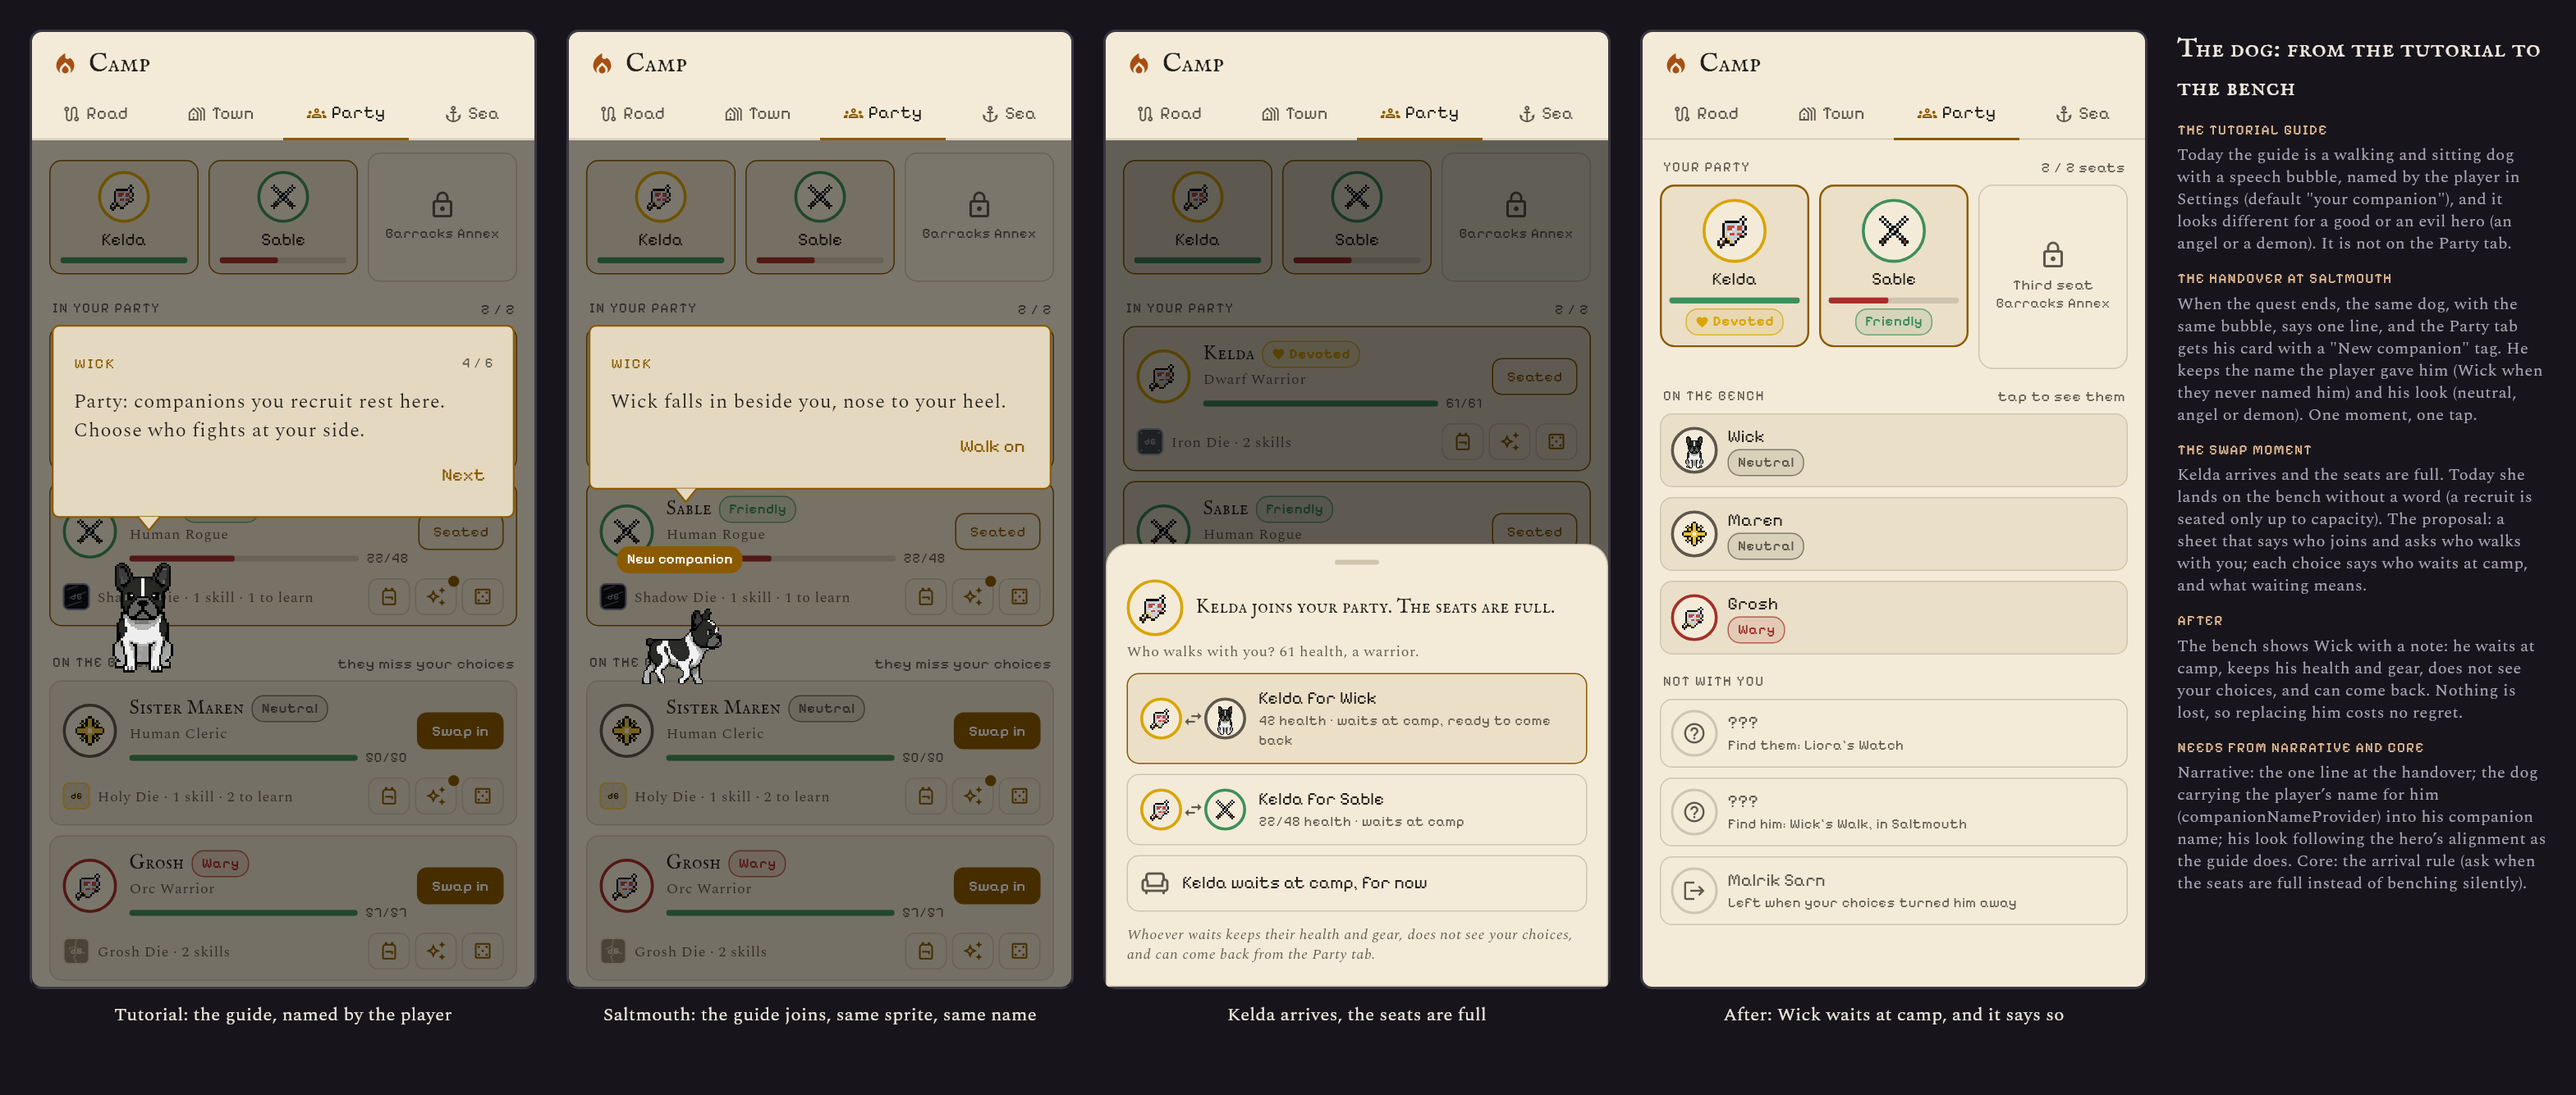
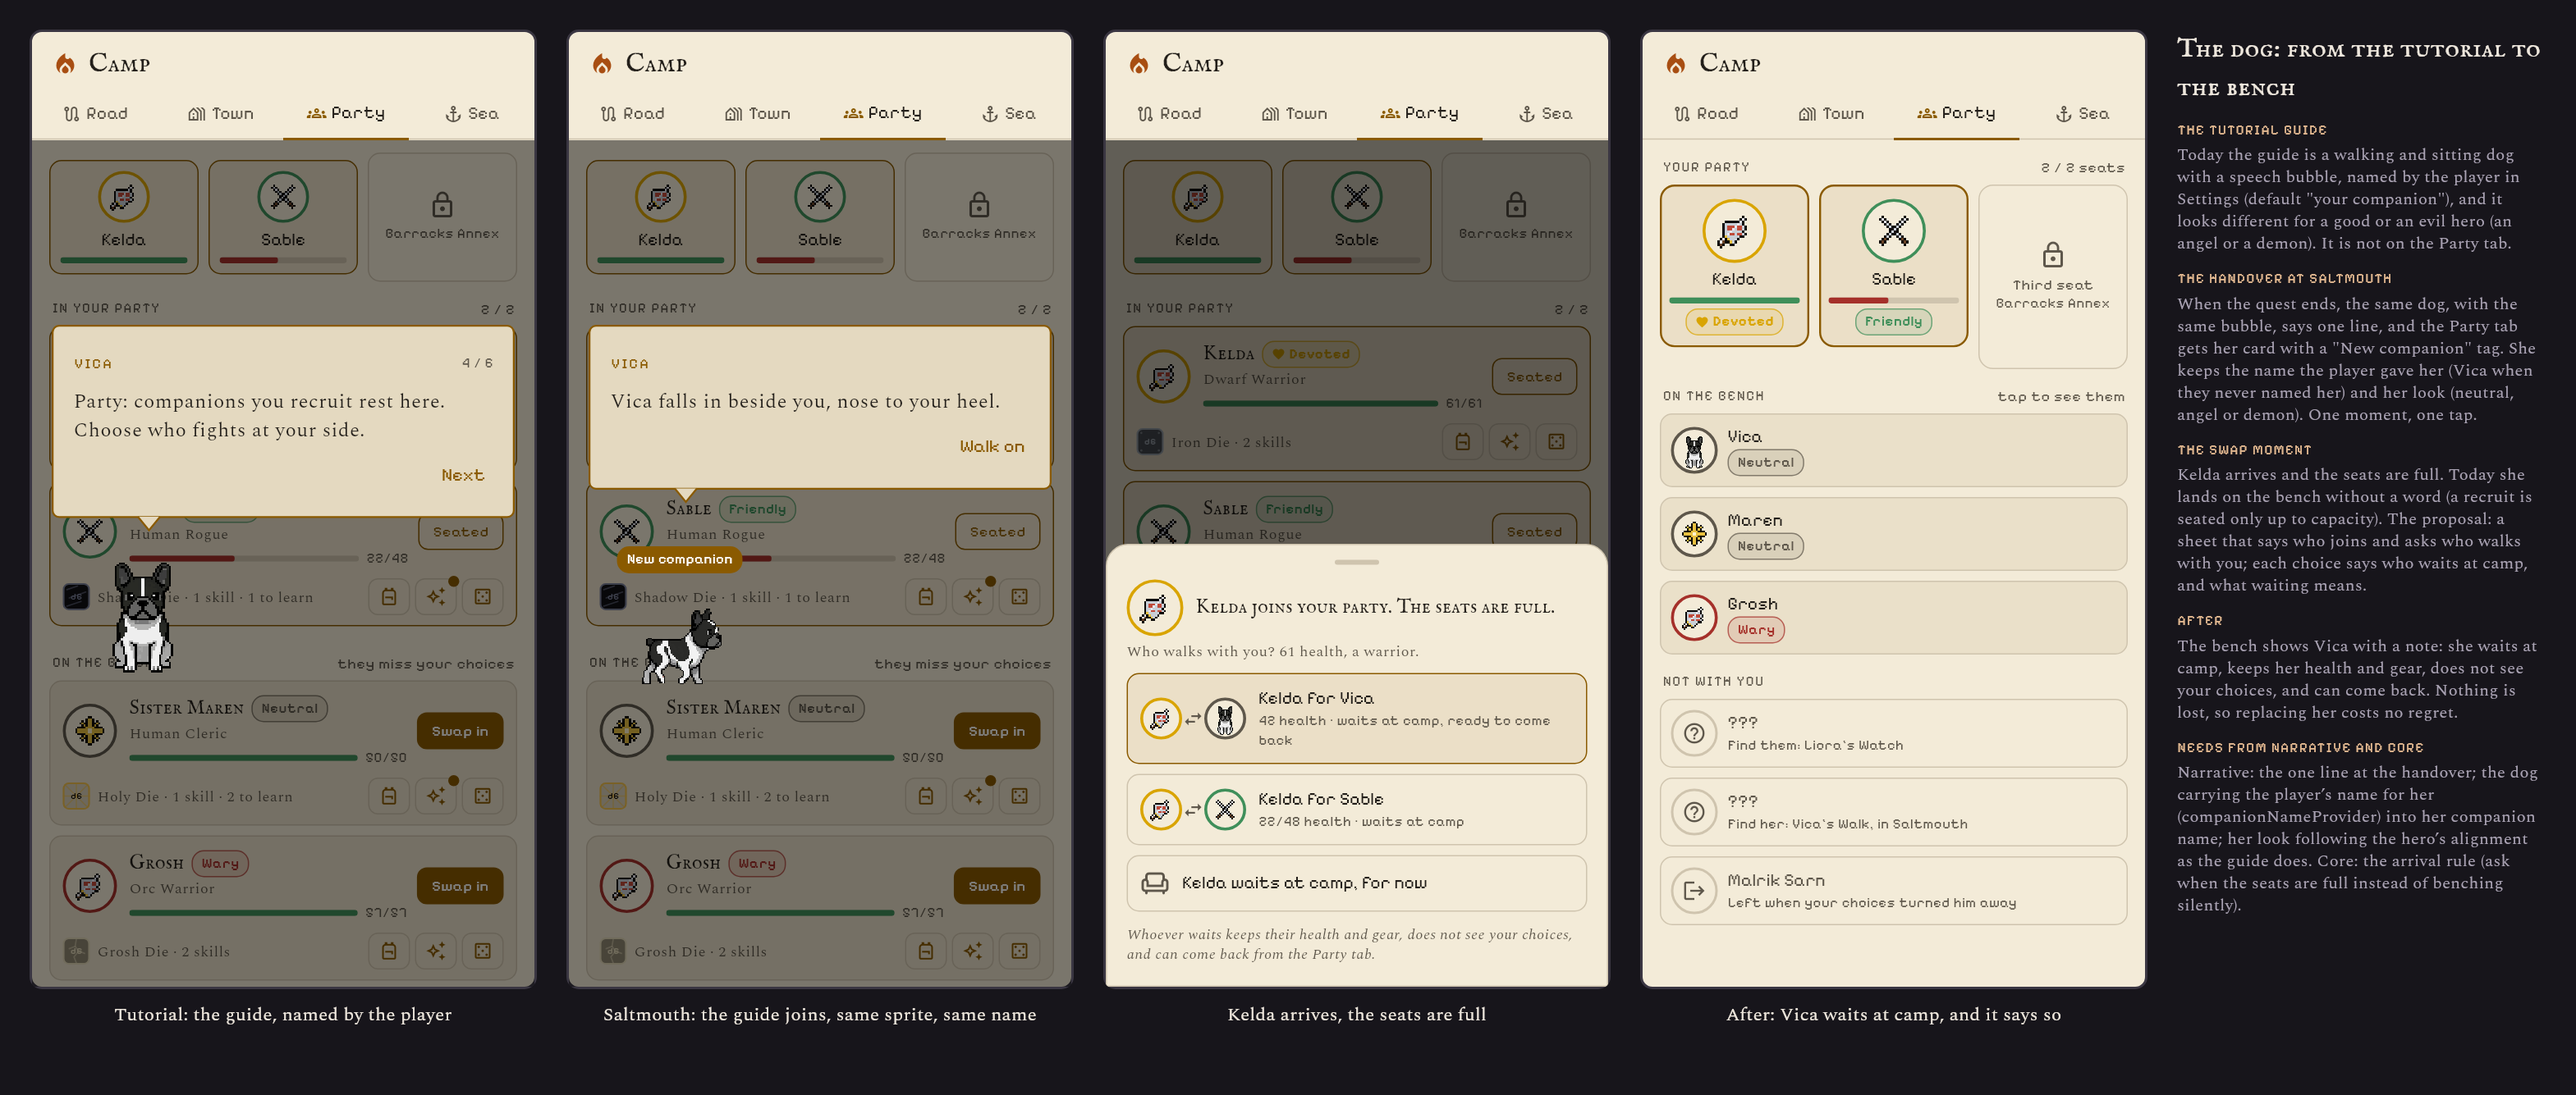
UX: the guide dog is Vica (rename in the companion review note, mock and pictures), pointer to the follower note
Claude-Session: https://claude.ai/code/session_01Y8cU3zPWWudNpnZGCrkKEc

diff --git a/test/ux_companion_mock_test.dart b/test/ux_companion_mock_test.dart
@@ -304,12 +304,12 @@ void main() {
           'Approval as a meter with its thresholds named (leaves at −12, wary, friendly at 5, devoted at 12), what the tier does, what they like and dislike as chips, and the rule that benched companions do not see your choices. Then their die (look and name), skills, gear, and the seat button.'
         ),
         (
-          'The guide dog (Wick)',
-          'A companion like the others: his sprite from the tutorial, a seat, a bench, a replacement. Health (about 42 at level 8) and the Hound Die are Core’s note (#568); his quest, Wick’s Walk in Saltmouth, is Narrative’s (#569). His likes are not set yet.'
+          'The guide dog (Vica)',
+          'A companion like the others: her sprite from the tutorial, a seat, a bench, a replacement. Health (about 42 at level 8) and the Hound Die are Core’s note (#568); her quest, Vica’s Walk in Saltmouth, is Narrative’s (#569). Her likes are not set yet.'
         ),
         (
           'Needs from Core',
-          'Nothing for the screens. The dog is already in Core’s note (#568): no race, class ranger, hound_die. Open: his likes and dislikes.'
+          'Nothing for the screens. The dog is already in Core’s note (#568): no race, class ranger, hound_die. Open: her likes and dislikes.'
         ),
         (
           'Needs from UX',
@@ -326,7 +326,7 @@ void main() {
           412,
           'Tutorial: the guide, named by the player',
           const DogMoment(
-            speaker: 'Wick',
+            speaker: 'Vica',
             text:
                 'Party: companions you recruit rest here. Choose who fights at your side.',
             counter: '4 / 6',
@@ -336,8 +336,8 @@ void main() {
           412,
           'Saltmouth: the guide joins, same sprite, same name',
           const DogMoment(
-            speaker: 'Wick',
-            text: 'Wick falls in beside you, nose to your heel.',
+            speaker: 'Vica',
+            text: 'Vica falls in beside you, nose to your heel.',
             nextLabel: 'Walk on',
             walking: true,
             tag: 'New companion',
@@ -346,8 +346,8 @@ void main() {
         (412, 'Kelda arrives, the seats are full', const ArrivalSheet()),
         (
           412,
-          'After: Wick waits at camp, and it says so',
-          const BPage(withWick: true)
+          'After: Vica waits at camp, and it says so',
+          const BPage(withVica: true)
         ),
       ],
       container: container,
@@ -360,7 +360,7 @@ void main() {
           ),
           (
             'The handover at Saltmouth',
-            'When the quest ends, the same dog, with the same bubble, says one line, and the Party tab gets his card with a "New companion" tag. He keeps the name the player gave him (Wick when they never named him) and his look (neutral, angel or demon). One moment, one tap.'
+            'When the quest ends, the same dog, with the same bubble, says one line, and the Party tab gets her card with a "New companion" tag. She keeps the name the player gave her (Vica when they never named her) and her look (neutral, angel or demon). One moment, one tap.'
           ),
           (
             'The swap moment',
@@ -368,11 +368,11 @@ void main() {
           ),
           (
             'After',
-            'The bench shows Wick with a note: he waits at camp, keeps his health and gear, does not see your choices, and can come back. Nothing is lost, so replacing him costs no regret.'
+            'The bench shows Vica with a note: she waits at camp, keeps her health and gear, does not see your choices, and can come back. Nothing is lost, so replacing her costs no regret.'
           ),
           (
             'Needs from Narrative and Core',
-            'Narrative: the one line at the handover; the dog carrying the player\u2019s name for him (companionNameProvider) into his companion name; his look following the hero\u2019s alignment as the guide does. Core: the arrival rule (ask when the seats are full instead of benching silently).'
+            'Narrative: the one line at the handover; the dog carrying the player\u2019s name for her (companionNameProvider) into her companion name; her look following the hero\u2019s alignment as the guide does. Core: the arrival rule (ask when the seats are full instead of benching silently).'
           ),
         ],
       ),

diff --git a/test/ux_companion_mock_parts.dart b/test/ux_companion_mock_parts.dart
@@ -656,12 +656,12 @@ const String dogDir = 'assets/visuals/companion/dog_companion_animations';
 const String dogSit = '$dogDir/Sitting_down/rotations/south.png';
 const String dogWalk = '$dogDir/Walking/east/frame_000.png';
 
-/// Wick, as the camp would hold him: no race, class ranger (Core's note,
+/// Vica, as the camp would hold her: no race, class ranger (Core's note,
 /// #568), about 42 health at level 8, the dog's own picture.
 AllyInfo wickInfo(Map<String, dynamic> professions, {bool active = false}) =>
     AllyInfo(
       id: 'wick',
-      name: 'Wick',
+      name: 'Vica',
       race: '',
       profession: 'Guide dog',
       professionRecord:
@@ -680,11 +680,11 @@ AllyInfo wickInfo(Map<String, dynamic> professions, {bool active = false}) =>
     );
 
 class BPage extends StatelessWidget {
-  const BPage({super.key, this.withWick = false});
+  const BPage({super.key, this.withVica = false});
 
-  /// Wick on the bench, and the note that he waits at camp (the frame after
-  /// a stronger companion took his seat).
-  final bool withWick;
+  /// Vica on the bench, and the note that she waits at camp (the frame after
+  /// a stronger companion took her seat).
+  final bool withVica;
 
   @override
   Widget build(BuildContext context) {
@@ -695,7 +695,7 @@ class BPage extends StatelessWidget {
           ref.watch(localizedDbProvider(professionsSchema)).value ?? const {};
       final seated = allies.where((a) => a.active).toList();
       final bench = [
-        if (withWick) wickInfo(professions),
+        if (withVica) wickInfo(professions),
         ...allies.where((a) => !a.active),
       ];
       Widget bigSeat(AllyInfo a) => Expanded(
@@ -837,7 +837,7 @@ class BPage extends StatelessWidget {
               ),
             Padding(
               padding: const EdgeInsets.only(bottom: 8),
-              child: ghost('???', 'Find him: Wick’s Walk, in Saltmouth'),
+              child: ghost('???', 'Find her: Vica’s Walk, in Saltmouth'),
             ),
             ghost('Malrik Sarn', 'Left when your choices turned him away',
                 lost: true),
@@ -1113,7 +1113,7 @@ class DogPage extends StatelessWidget {
             child: Column(
               crossAxisAlignment: CrossAxisAlignment.start,
               children: [
-                Text('Wick',
+                Text('Vica',
                     style: theme.textTheme.titleLarge
                         ?.copyWith(fontFamily: InkFonts.display)),
                 Text('Guide dog · found in Saltmouth',
@@ -1154,7 +1154,7 @@ class DogPage extends StatelessWidget {
         const ApprovalMeter(approval: startingApproval),
         const SizedBox(height: 6),
         Text(
-            'Wick is a companion like the others: he takes a seat, can be benched or replaced. His numbers and die come from Core’s note (#568), his quest from Narrative’s (#569); his likes are not set yet.',
+            'Vica is a companion like the others: she takes a seat, can be benched or replaced. Her numbers and die come from Core’s note (#568), her quest from Narrative’s (#569); her likes are not set yet.',
             style: theme.textTheme.bodySmall
                 ?.copyWith(color: ink.ash, fontStyle: FontStyle.italic)),
         sectionTitle(context, 'Their die'),

diff --git a/docs/proposals/companion-interface.md b/docs/proposals/companion-interface.md
@@ -59,39 +59,39 @@ Annex. Pictures only: no build, no version. Mock test: `test/ux_companion_mock_t
   thresholds named** (leaves at −12, wary at −5, friendly at 5, devoted at 12), what the tier
   does, likes and dislikes as chips, and the line that benched companions do not see your choices; then
   their die (look and name, a tap opens the ring), skills, gear.
-- **The guide dog's page** (last frame): Wick, his sprite from the tutorial, "Guide dog · found in
-  Saltmouth", a seat, a bench, the Hound Die. His numbers and die are Core's (#568), his quest (Wick's
-  Walk) Narrative's (#569); his likes and dislikes are not set yet.
+- **The guide dog's page** (last frame): Vica, her sprite from the tutorial, "Guide dog · found in
+  Saltmouth", a seat, a bench, the Hound Die. Her numbers and die are Core's (#568), her quest (Vica's
+  Walk) Narrative's (#569); her likes and dislikes are not set yet.
 - Cost: a new page and a rebuilt Party tab: about two days of UX, more than A.
 
 ## The guide dog: from the tutorial to the bench (`companion-dog.png`)
 From Core's note (#568: the dog joins at Saltmouth as a normal ranger-class companion, weaker than Kelda
-and Sable, benched once a stronger one joins) and Narrative's (#569: Wick, Wick's Walk).
+and Sable, benched once a stronger one joins) and Narrative's (#569: Vica, Vica's Walk).
 - **The tutorial guide today:** a walking and sitting dog with the speech bubble (the real
   `SpeechBubble`), named by the player in Settings (`companionNameProvider`, default "your
   companion"), and a different look for a good or an evil hero (angel or demon). It is not on the Party
   tab.
-- **The handover at Saltmouth (one small moment):** when Wick's Walk ends, the same dog, with the same
-  bubble, says one line, and the Party tab gets his card with a "New companion" tag. He keeps the name
-  the player gave the guide (Wick when they never named it) and his look. Narrative writes the line.
+- **The handover at Saltmouth (one small moment):** when Vica's Walk ends, the same dog, with the same
+  bubble, says one line, and the Party tab gets her card with a "New companion" tag. She keeps the name
+  the player gave the guide (Vica when they never named it) and her look. Narrative writes the line.
 - **The swap moment (a stronger companion arrives):** today a recruit is seated only up to capacity, so
   Kelda, arriving with the seats full, lands on the bench **without a word**, and nothing tells the
   player who is now benched. The proposal: a sheet, "Kelda joins your party. The seats are full. Who
-  walks with you?", with one row per choice ("Kelda for Wick", "Kelda for Sable", "Kelda waits at camp,
+  walks with you?", with one row per choice ("Kelda for Vica", "Kelda for Sable", "Kelda waits at camp,
   for now"), each saying who waits at camp, and one line on what waiting means: they keep their health
   and gear, do not see your choices, and can come back from the Party tab.
-- **After:** the bench shows Wick, and a gold note says it once: "Wick waits at camp. Kelda walks with
-  you. He keeps his health and his gear; he does not see your choices. Tap him to bring him back."
+- **After:** the bench shows Vica, and a gold note says it once: "Vica waits at camp. Kelda walks with
+  you. Vica keeps her health and her gear, does not see your choices, and can come back: tap her."
 - **Needs:** Narrative: the one line at the handover, the dog taking the player's name for the guide
-  (`companionNameProvider`) as his companion name, his look following the hero's alignment as the guide
+  (`companionNameProvider`) as her companion name, her look following the hero's alignment as the guide
   does. Core: the arrival rule (ask when the seats are full, instead of benching silently); this is
   behaviour in `recruitAlly` / `_setAllyInParty`, so Core's.
 
 ## What each needs from Core
 - **A:** nothing.
 - **B:** nothing for the screens. The dog is in Core's note (#568: no race, class ranger, `hound_die`,
-  about 42 health at level 8) and Narrative's (#569: Wick's Walk, Saltmouth); what is still open for
-  Core is his likes and dislikes (approval weights) and whether his page shows a class at all (the
+  about 42 health at level 8) and Narrative's (#569: Vica's Walk, Saltmouth); what is still open for
+  Core is her likes and dislikes (approval weights) and whether her page shows a class at all (the
   picture shows none, only "Guide dog"). For "Not with you": whether to show a companion not yet met as a "???" (a spoiler
   question for the story) and a record of who left (today `loseAlly` drops them; a list of the lost,
   with the reason, would feed the "left" row).
@@ -105,3 +105,10 @@ approval meter, the die and the dog live (fixes 4 and 7).
 1. A, B, or A now and B's page later?
 2. Should companions not yet met show as a "???" with their quest, or stay hidden until found?
 3. Should a lost companion stay on the page (greyed, with why)?
+
+## Vica in the scenes
+
+The dog is named **Vica** (the same dog as the tutorial's guide). Once she is seated in the party
+she should also follow the hero's sprite in the scenes: the street at the door, the land walk, the
+story page. Pictures, what draws the hero today and what it would take are in
+[vica-follows.md](vica-follows.md) (picture `docs/ux-shots/vica-follows.png`).
